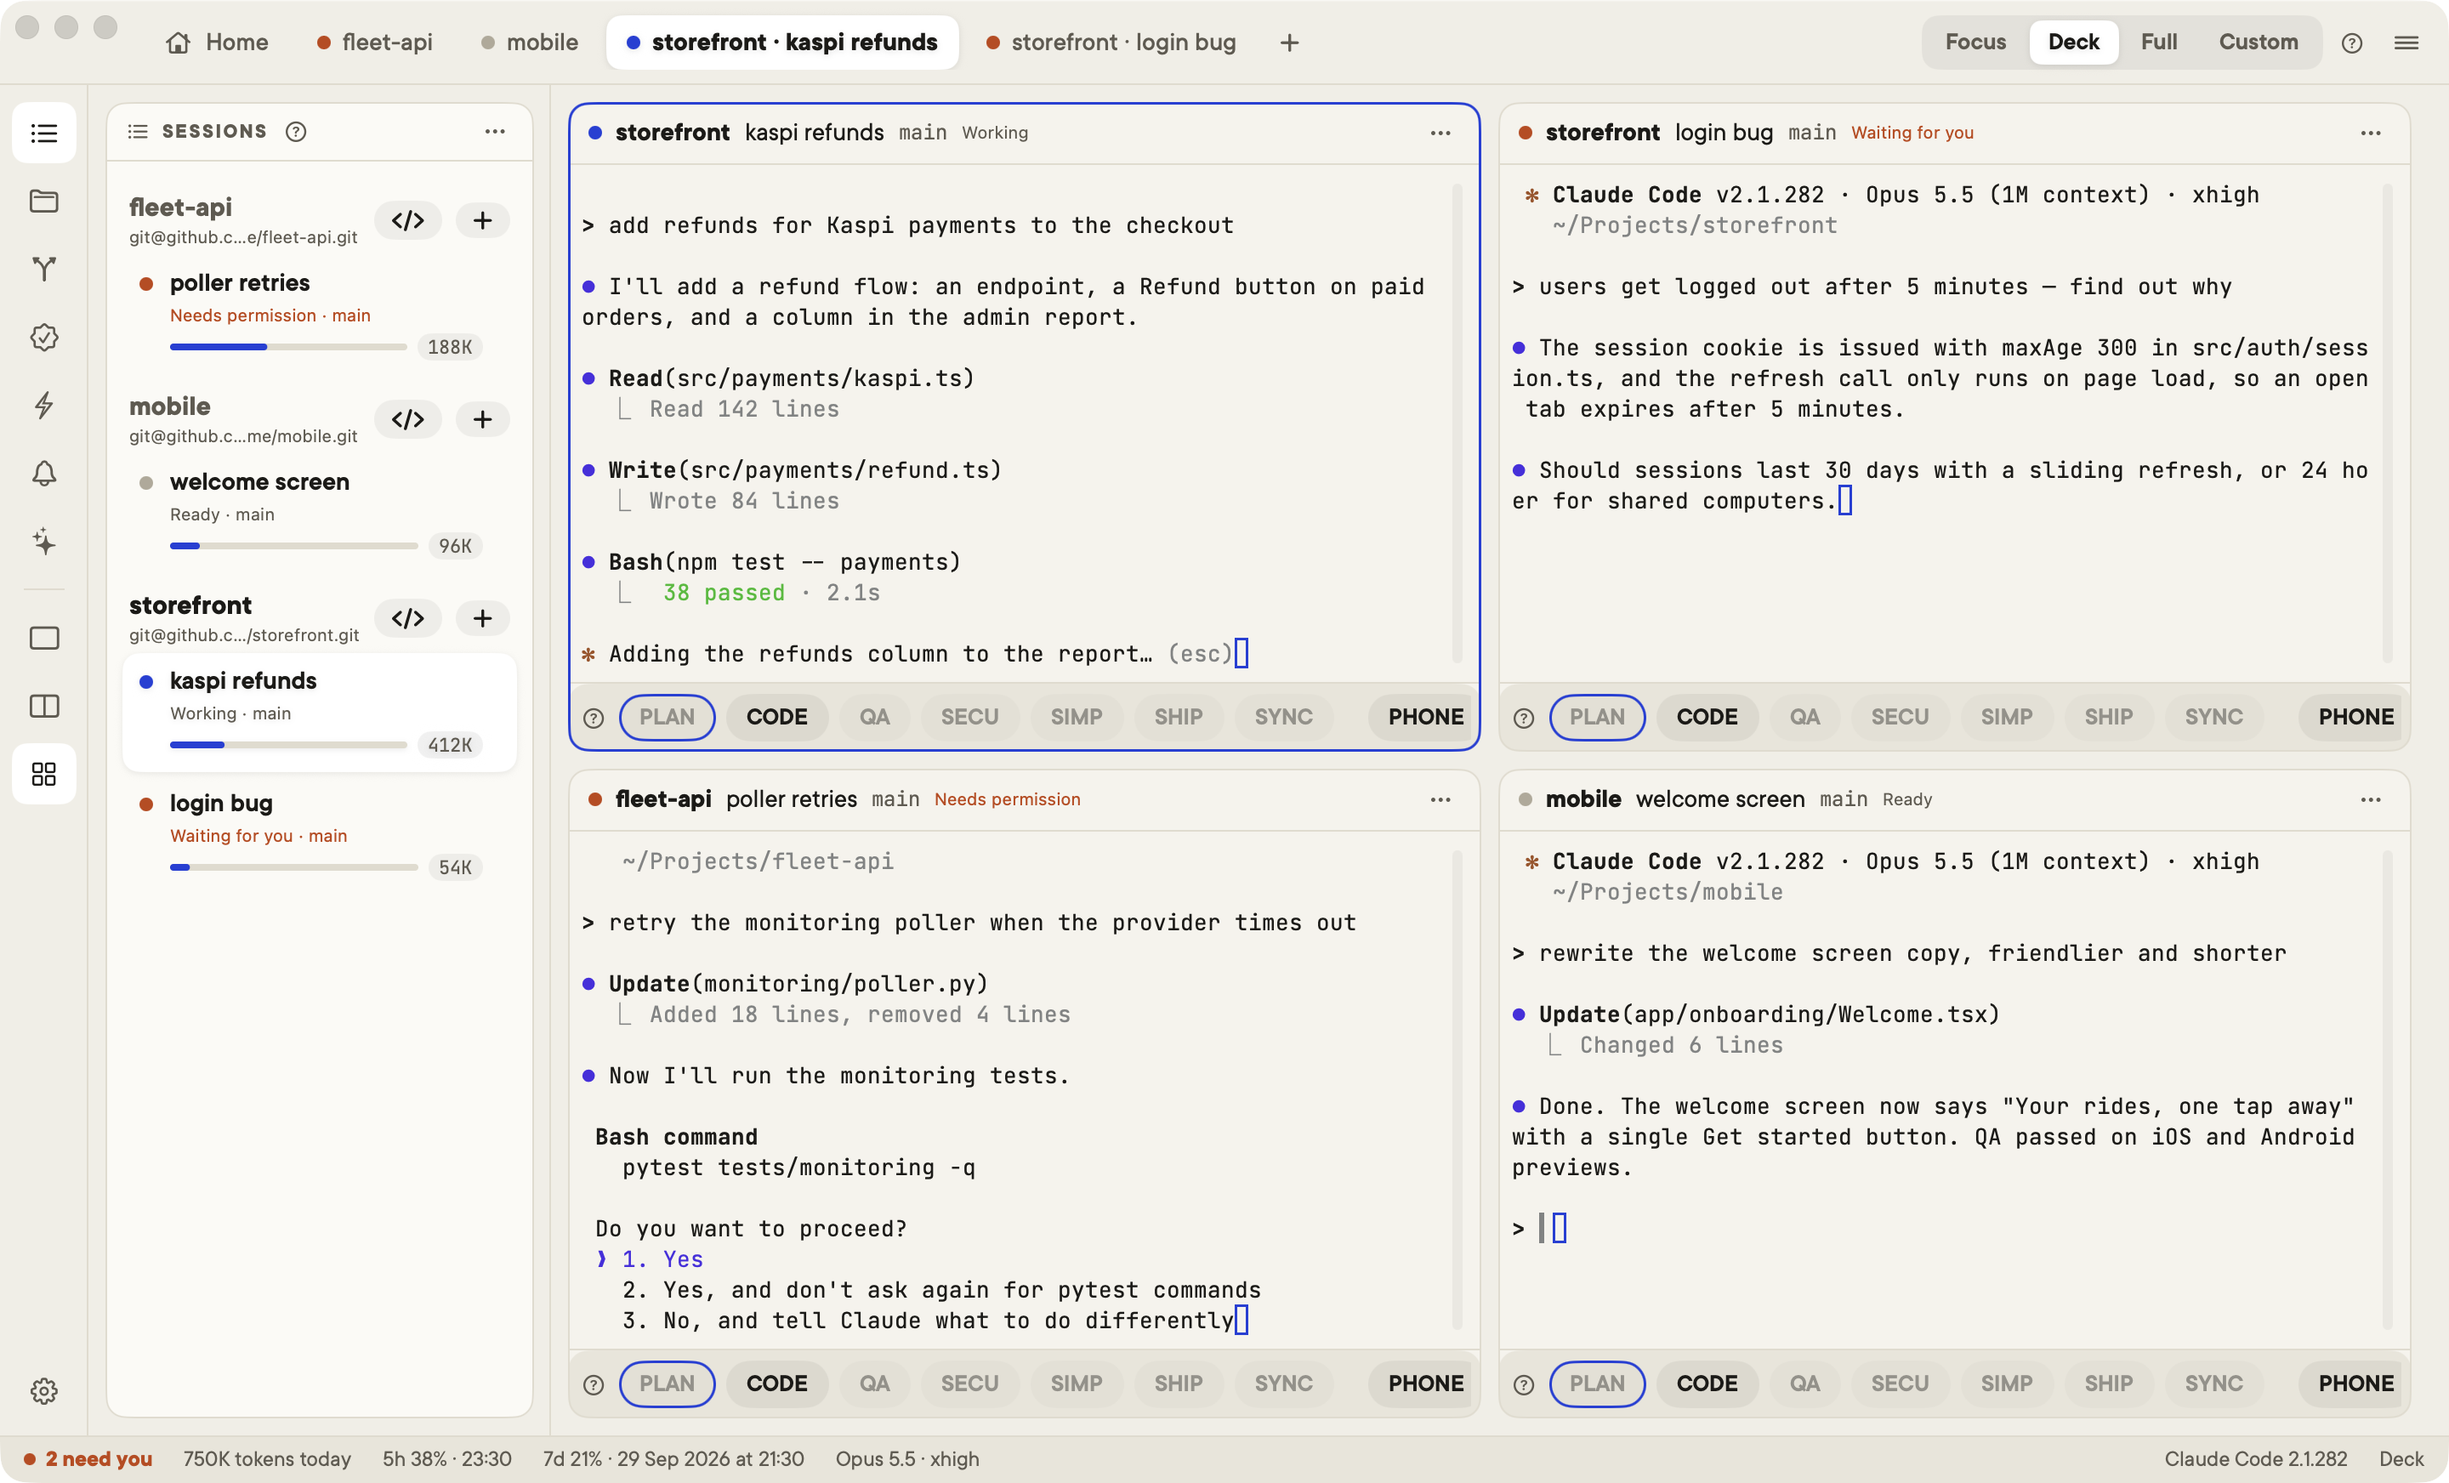
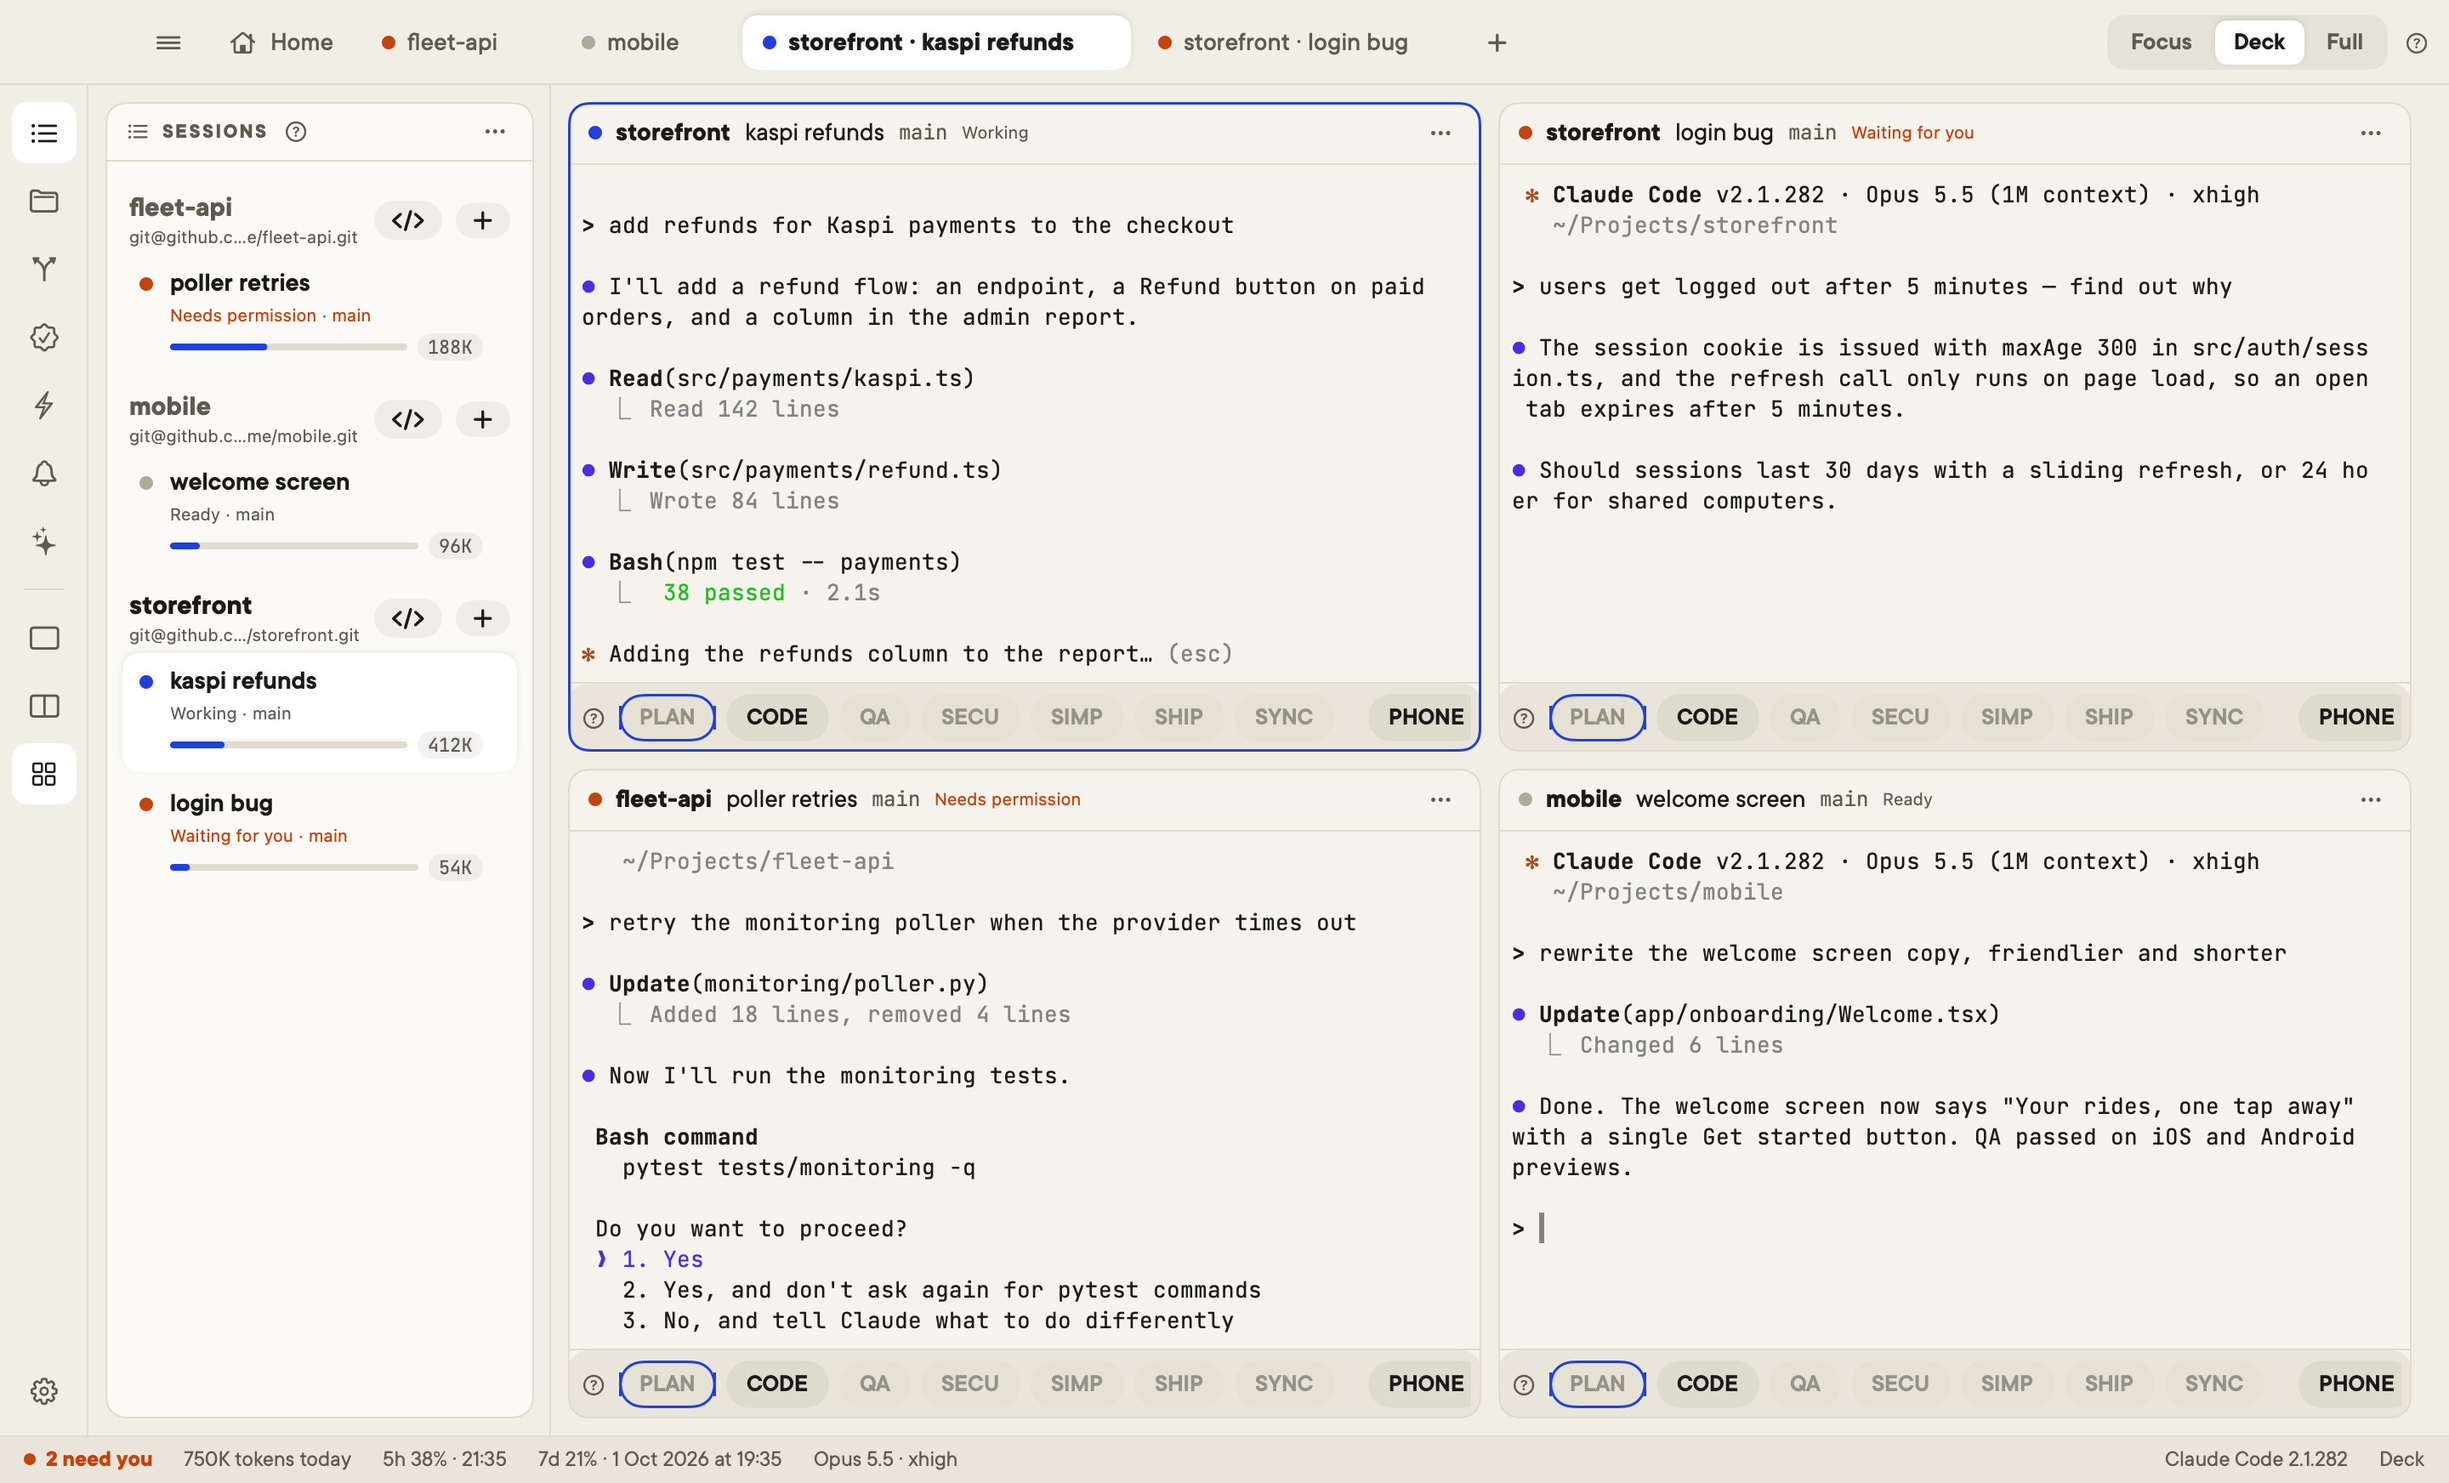
docs: screenshots of meepo 0.5, drawn by the app itself
Demo screenshots are now rendered from the window's layers inside the test
instead of captured through the window server: a capture without Screen
Recording permission came back dimmed. The terminals' background, which a
layer render leaves out, is laid in with the color meepo gives them. Today
replaces Timeline in the README.

diff --git a/MeepoTests/ShellSnapshotTests.swift b/MeepoTests/ShellSnapshotTests.swift
@@ -166,6 +166,34 @@ final class ShellSnapshotTests: XCTestCase {
 
     /// The README's screenshots: demo mode's made-up projects in each layout, at 1440 × 900.
     /// TEST_RUNNER_MEEPO_SCREENSHOT_DIR=docs/screenshots xcodebuild test -only-testing:MeepoTests/ShellSnapshotTests/testDemoScreens
+    /// A view's whole layer tree at 2×, as a picture.
+    static func render(_ view: NSView) throws -> NSBitmapImageRep {
+        view.layoutSubtreeIfNeeded()
+        view.displayIfNeeded()
+
+        let scale: CGFloat = 2, size = view.bounds.size
+        let rep = try XCTUnwrap(NSBitmapImageRep(bitmapDataPlanes: nil, pixelsWide: Int(size.width * scale), pixelsHigh: Int(size.height * scale),
+                                                 bitsPerSample: 8, samplesPerPixel: 4, hasAlpha: true, isPlanar: false,
+                                                 colorSpaceName: .deviceRGB, bytesPerRow: 0, bitsPerPixel: 0))
+        rep.size = size
+        // The rep's context already maps points to its 2× pixels; layers draw top-down, the bitmap bottom-up.
+        let cg = try XCTUnwrap(NSGraphicsContext(bitmapImageRep: rep)).cgContext
+        cg.translateBy(x: 0, y: size.height)
+        cg.scaleBy(x: 1, y: -1)
+        try XCTUnwrap(view.layer).render(in: cg)
+        // The terminals' own background (their layer's) doesn't come through a render — only their text, over a
+        // clear hole. Laid over the terminal color meepo gives them, they look as they do on screen.
+        let page = try XCTUnwrap(NSBitmapImageRep(bitmapDataPlanes: nil, pixelsWide: rep.pixelsWide, pixelsHigh: rep.pixelsHigh,
+                                                  bitsPerSample: 8, samplesPerPixel: 4, hasAlpha: true, isPlanar: false,
+                                                  colorSpaceName: .deviceRGB, bytesPerRow: 0, bitsPerPixel: 0))
+        let out = try XCTUnwrap(NSGraphicsContext(bitmapImageRep: page)).cgContext
+        let whole = CGRect(x: 0, y: 0, width: page.pixelsWide, height: page.pixelsHigh)
+        out.setFillColor(NSColor(Tokens.terminalBg).cgColor)
+        out.fill(whole)
+        out.draw(try XCTUnwrap(rep.cgImage), in: whole)
+        return page
+    }
+
     func testDemoScreens() async throws {
         let path = ProcessInfo.processInfo.environment["MEEPO_SCREENSHOT_DIR"]
         try XCTSkipIf(path == nil, "screenshots only on request")
@@ -189,10 +217,12 @@ final class ShellSnapshotTests: XCTestCase {
             window.makeKeyAndOrderFront(nil)
             defer { window.orderOut(nil); window.contentView = nil }
             try await Task.sleep(for: .milliseconds(1500))
-            // As the window server composites it: cacheDisplay leaves the terminals' layer backgrounds out.
-            let image = try XCTUnwrap(CGWindowListCreateImage(.null, .optionIncludingWindow, CGWindowID(window.windowNumber),
-                                                              [.boundsIgnoreFraming, .bestResolution]))
-            let rep = NSBitmapImageRep(cgImage: image)
+            // Drawn by the app itself, layers and all: no Screen Recording permission, nothing the window server
+            // adds (a permission-less capture comes back dimmed; cacheDisplay leaves layer backgrounds out).
+            // A terminal that was just made or resized paints its background only after it has drawn once.
+            _ = try Self.render(try XCTUnwrap(window.contentView))
+            try await Task.sleep(for: .milliseconds(700))
+            let rep = try Self.render(try XCTUnwrap(window.contentView))
             try rep.representation(using: .png, properties: [:])?.write(to: URL(fileURLWithPath: path!).appending(path: "\(name).png"))
         }
         store.applyPreset(.deck)

diff --git a/README.md b/README.md
@@ -14,6 +14,8 @@ meepo doesn't write code and isn't another agent. Claude Code does the work, wit
 
 ![Four sessions: working, waiting for a permission, waiting for an answer, ready](docs/screenshots/deck.png)
 
+![Today: what was sent and what's left](docs/screenshots/today.png)
+
 **What changed — in your product's terms.** Work is counted the way it reaches people: by push. *What changed* shows a block for each push ("Sent to GitHub · 11:53 · 2 commits") and one for what isn't sent yet, with the requests behind it and the next step. One click writes it for your users — "in Leasing you can now import a payment schedule from Excel" — with what to check before shipping and how to try it. The code diff is still one click away.
 
 ![What changed: a run explained for users](docs/screenshots/focus.png)
